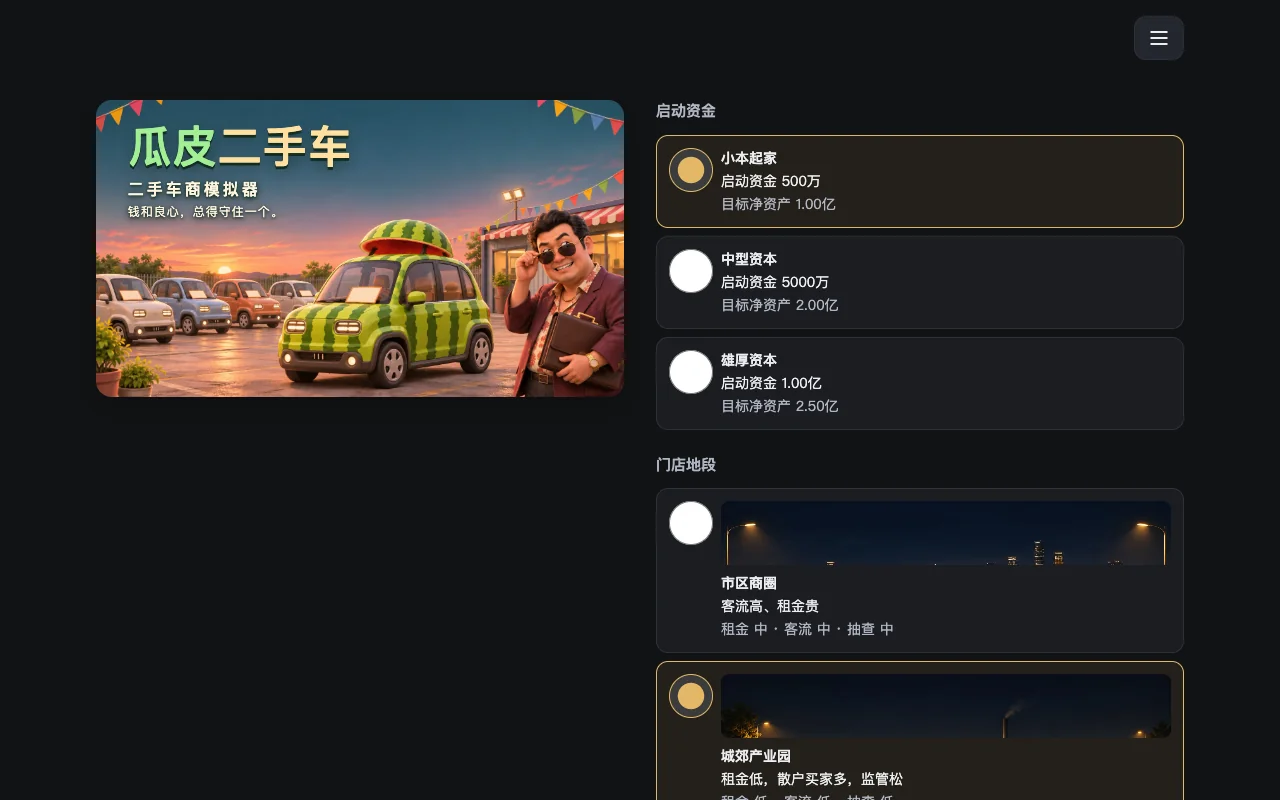
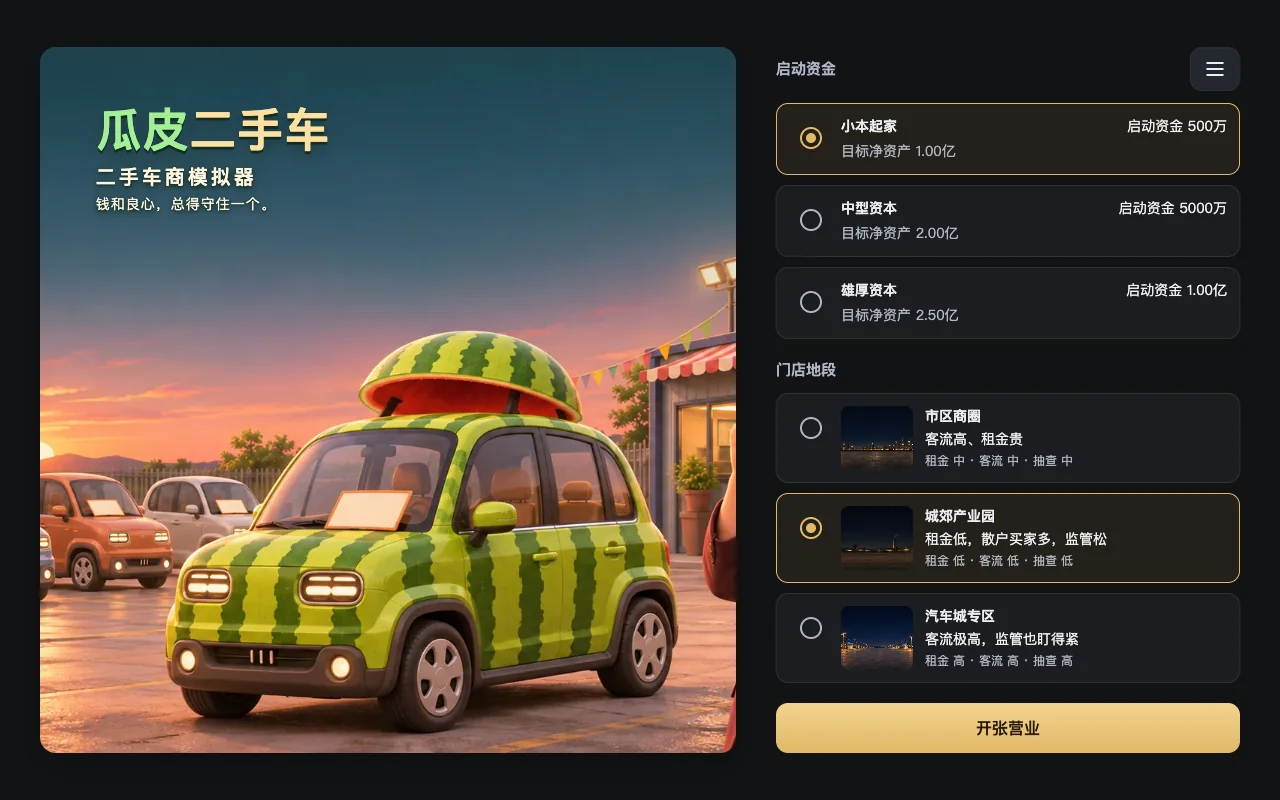
Polish start screen radios and center desktop layout

diff --git a/tools/start-screen-check.js b/tools/start-screen-check.js
@@ -1,0 +1,50 @@
+/* 开始页验收：桌面居中/首图高度、单选点击与键盘，以及可选的手机基线。 */
+const fs=require('fs'),path=require('path');
+module.exports=async function startScreenCheck(page,width,height,out,check,result,prefix,online){
+  const data=await page.evaluate(()=>{
+    const box=e=>{const r=e.getBoundingClientRect();return {x:r.x,y:r.y,width:r.width,height:r.height,right:r.right,bottom:r.bottom};};
+    return {start:box(document.querySelector('.start')),hero:box(document.querySelector('.keyart')),options:box(document.querySelector('.start-options')),menu:box(document.querySelector('.toolbar')),
+      last:box(document.querySelector('[data-act=start]')),source:document.querySelector('.keyart img').currentSrc,
+      boxes:[...document.querySelectorAll('.start,.keyart,.keyart-copy,.start-options,.pick,.start h3,.start button')].map(e=>box(e)),
+      radios:[...document.querySelectorAll('.start input[type=radio]')].map(e=>{const base=getComputedStyle(e),ring=getComputedStyle(e,'::before'),dot=getComputedStyle(e,'::after');return {checked:e.checked,hit:box(e),background:base.backgroundColor,border:ring.borderColor,borderWidth:ring.borderWidth,opacity:dot.opacity};})};
+  });
+  const label=width+'×'+height;
+  check(data.radios.every(r=>r.hit.width>=44&&r.hit.height>=44),label+' 单选保留44px点击区');
+  check(data.radios.every(r=>r.background==='rgba(0, 0, 0, 0)'&&r.borderWidth==='2px'&&r.border===(r.checked?'rgb(226, 184, 102)':'rgb(177, 182, 195)')&&+r.opacity===(r.checked?1:0)),label+' 未选空心次要色、选中金圈金点');
+  if(width>=1000){
+    check(data.start.width<=1200.5&&Math.abs(data.start.x+data.start.width/2-width/2)<.5,label+' 内容最大1200px且水平居中');
+    check(Math.abs(data.start.y+data.start.height/2-height/2)<.5,label+' 内容垂直居中');
+    check(data.hero.height>=height*.75-.5&&Math.abs(data.hero.height-data.options.height)<.5,label+' 首图至少75vh且撑满右栏');
+    check(Math.abs(data.hero.width/data.options.width-1.5)<.01,label+' 左右栏3比2');
+    check(Math.abs(data.menu.right-data.start.right)<.5&&Math.abs(data.menu.y-data.start.y)<.5,label+' 菜单位于内容区右上角');
+    check(data.last.bottom<=height-8,label+' 开张按钮完整在首屏');
+    check(data.source.endsWith('keyart_a_desktop.webp'),label+' 使用A桌面图');
+  }
+  await page.screenshot({path:path.join(out,prefix+(online?'-online':'')+(width>=1000?'-desktop-':'-mobile-')+width+'.png')});
+  if(width===390&&!online){
+    await page.screenshot({path:path.join(out,prefix+'-mobile-after-full.png'),fullPage:true});
+    const before=path.join(out,'t05-mobile-before.json');
+    if(fs.existsSync(before)){
+      const baseline=JSON.parse(fs.readFileSync(before,'utf8'));
+      const same=baseline.boxes.length===data.boxes.length&&baseline.boxes.every((b,i)=>['x','y','width','height'].every(k=>Math.abs(b[k]-data.boxes[i][k])<.01));
+      check(same,'390手机所有标题、卡片、按钮和首图布局坐标与修改前一致');result.mobileBaseline={same,commit:baseline.commit};
+    }
+  }
+  await page.emulateMedia({reducedMotion:'no-preference'});
+  check(await page.locator('input[name=diff]').first().evaluate(e=>getComputedStyle(e,'::before').transitionDuration==='0.15s'&&getComputedStyle(e,'::after').transitionDuration.split(', ').every(t=>t==='0.15s')),label+' 单选切换过渡150ms');
+  for(const name of ['diff','loc']){
+    const inputs=page.locator('input[name='+name+']');await inputs.nth(2).check();
+    await page.waitForFunction(name=>+getComputedStyle(document.querySelector('input[name='+name+']:checked'),'::after').opacity===1,name);
+    check(await inputs.nth(2).isChecked()&&await page.locator('input[name='+name+']:checked').count()===1,label+' '+name+' 点击保持互斥');
+    await inputs.nth(2).press('ArrowLeft');check(await inputs.nth(1).isChecked(),label+' '+name+' 原生方向键可切换');
+  }
+  await page.emulateMedia({reducedMotion:'reduce'});
+  check(await page.locator('input[name=diff]').first().evaluate(e=>getComputedStyle(e,'::before').transitionDuration==='0s'&&getComputedStyle(e,'::after').transitionDuration==='0s'),label+' 减少动态效果关闭单选过渡');
+  await page.locator('input[name=diff]').first().check();await page.locator('input[name=loc]').nth(1).check();
+  if(width>=1000){
+    await page.evaluate(()=>{window.__startHasSave=G.hasSave;G.hasSave=()=>true;G.render();});
+    check(await page.locator('[data-act=continue]').evaluate(e=>e.getBoundingClientRect().bottom<=innerHeight-8),label+' 含继续按钮也完整在首屏');
+    await page.evaluate(()=>{G.hasSave=window.__startHasSave;delete window.__startHasSave;G.render();scrollTo(0,0);});
+  } else await page.evaluate(()=>scrollTo(0,0));
+  (result.startScreens??=[]).push({width,height,...data});
+};

diff --git a/tools/browser-check.js b/tools/browser-check.js
@@ -5,7 +5,7 @@ const fs=require('fs'),path=require('path');const {chromium}=require(process.env
 const root=path.resolve(__dirname,'..'),url=process.env.USEDCAR_TEST_URL||'http://127.0.0.1:8893/';
 const online=/^https:\/\/[^/]+\.github\.io\//.test(url);if(!online&&!/^http:\/\/(localhost|127\.0\.0\.1):\d+\/$/.test(url))throw new Error('请使用本地预览或 Pages 地址');
 const out=path.join(root,'_screens');const result={url,checks:[],errors:[],viewports:[],buttons:[],performance:{}};
-const prefix=process.env.USEDCAR_EVIDENCE_PREFIX||'t04';fs.mkdirSync(out,{recursive:true});
+const prefix=process.env.USEDCAR_EVIDENCE_PREFIX||'t05';fs.mkdirSync(out,{recursive:true});
 function check(value,msg){result.checks.push({pass:!!value,msg});if(!value)throw new Error(msg);}
 const act=(p,name)=>p.locator(`[data-act="${name}"]`);
 async function click(p,name){const el=act(p,name).first();const disabled=await el.isDisabled();if(disabled)await el.evaluate(e=>e.scrollIntoView({block:'center'}));await el.click({force:disabled});result.buttons.push(name);}
@@ -16,14 +16,15 @@ async function geometry(p,label){const d=await p.evaluate(()=>({w:innerWidth,doc
 async function touch(p,label){const r=await p.evaluate(()=>{const gesture=new Event('gesturestart',{bubbles:true,cancelable:true});document.dispatchEvent(gesture);const move=new Event('touchmove',{bubbles:true,cancelable:true});Object.defineProperty(move,'touches',{value:[{},{}]});document.dispatchEvent(move);const wheel=new WheelEvent('wheel',{ctrlKey:true,bubbles:true,cancelable:true});document.dispatchEvent(wheel);const key=new KeyboardEvent('keydown',{key:'+',ctrlKey:true,bubbles:true,cancelable:true});document.dispatchEvent(key);const one=new Event('touchend',{bubbles:true,cancelable:true}),two=new Event('touchend',{bubbles:true,cancelable:true});document.body.dispatchEvent(one);document.body.dispatchEvent(two);return {scale:visualViewport.scale,gesture:gesture.defaultPrevented,move:move.defaultPrevented,wheel:wheel.defaultPrevented,key:key.defaultPrevented,double:two.defaultPrevented};});check(r.gesture&&r.move&&r.wheel&&r.key&&r.double&&Math.abs(r.scale-1)<.001,label+' 双指 / 手势 / 双击 / 组合键被拦截，scale=1');}
 async function snapshot(p,name){await p.waitForLoadState('networkidle');await p.screenshot({path:path.join(out,name+'.png')});}
 (async()=>{const browser=await chromium.launch({channel:'chrome',headless:true});try{
- if(!online&&!process.env.USEDCAR_WIDTH)await require('./keyart-check')(browser,url,out,check,result);
- for(const [w,h] of (online?[[390,844],[1280,800]]:[[375,667],[390,844],[430,932],[1280,800],[1920,1080]]).filter(([width])=>!process.env.USEDCAR_WIDTH || width===Number(process.env.USEDCAR_WIDTH))){
+ if(!online&&!process.env.USEDCAR_WIDTH)await require('./keyart-check')(browser,url,out,check,result,prefix);
+ for(const [w,h] of (online?[[390,844],[1280,800],[1440,900],[1920,1080]]:[[375,667],[390,844],[430,932],[1280,800],[1440,900],[1920,1080]]).filter(([width])=>!process.env.USEDCAR_WIDTH || width===Number(process.env.USEDCAR_WIDTH))){
  const ctx=await browser.newContext({viewport:{width:w,height:h},hasTouch:w<500,isMobile:w<500,reducedMotion:'reduce'});
  await ctx.addInitScript(()=>{window.__vibes=[];window.__tones=0;try{navigator.vibrate=n=>{window.__vibes.push(n);return true;};}catch(_){}const Base=window.AudioContext;if(Base)window.AudioContext=class extends Base{createOscillator(){window.__tones++;return super.createOscillator();}};});
  const p=await ctx.newPage();p.on('pageerror',e=>result.errors.push(w+': '+e.message));p.on('response',r=>{if(r.status()>=400)result.errors.push(r.status()+' '+r.url());});p.on('console',m=>{if(m.type()==='error')result.errors.push(m.text());});
  await p.goto(url);await p.waitForLoadState('networkidle');check((await p.title()).includes('瓜皮二手车'),'游戏名');await geometry(p,w+' 开始');await touch(p,w+' 开始');
  check(await p.locator('.keyart-title').count()===1,'开始页标题叠在首图');
  check(await p.locator('.keyart-title').evaluate(e=>parseFloat(getComputedStyle(e).fontSize)>=40),'首图标题不小于40px');
+ await require('./start-screen-check')(p,w,h,out,check,result,prefix,online);
  await snapshot(p,prefix+(online?'-online-':'-start-')+(online?(w<500?'mobile':'desktop'):w));
  check(await p.locator('meta[name="viewport"]').getAttribute('content').then(s=>s.includes('user-scalable=no')),'viewport 已限制');
  await menu(p);check(await act(p,'save-import').count()===1&&await act(p,'save-export').count()===0,'未开局菜单只提供导入');await click(p,'menu-close');

diff --git a/css/keyart.css b/css/keyart.css
@@ -1,4 +1,4 @@
-/* 手机与桌面各用独立构图；完整显示原图，不用 cover 碰运气裁主体。 */
+/* 手机完整显示独立竖图；桌面 A 用横图 cover，焦点对准西瓜车。 */
 .keyart { position:relative; isolation:isolate; overflow:hidden; aspect-ratio:1122/1402;
   border-radius:16px; background:#17342f; box-shadow:0 10px 30px #0003; }
 .keyart-picture, .keyart-picture img { display:block; width:100%; height:100%; }
@@ -44,4 +44,52 @@
   .keyart-car-back { top:32%; left:-1%; width:51%; }
   .keyart-car-middle { top:34%; right:-2%; width:57%; }
   .keyart-car-front { top:42%; left:20%; width:60%; }
+}
+/* 单选控件保留 44px 原生点击区；可见圆圈 22px，不改变手机卡片排版。 */
+.start .pick input[type=radio] { appearance:none; -webkit-appearance:none; width:44px; height:44px;
+  border:0; padding:0; background:transparent; position:relative; display:grid; place-items:center; cursor:pointer; }
+.start .pick input[type=radio]::before { content:''; box-sizing:border-box; width:22px; height:22px; border:2px solid var(--muted);
+  border-radius:50%; transition:border-color 150ms ease; }
+.start .pick input[type=radio]::after { content:''; position:absolute; top:17px; left:17px; width:10px; height:10px;
+  border-radius:50%; background:var(--gold); opacity:0; transform:scale(0); transition:opacity 150ms ease,transform 150ms ease; }
+.start .pick input[type=radio]:checked::before { border-color:var(--gold); }
+.start .pick input[type=radio]:checked::after { opacity:1; transform:scale(1); }
+.start .pick input[type=radio]:focus-visible { outline:2px solid var(--blue); outline-offset:1px; border-radius:50%; }
+@media(min-width:1000px) {
+  #app.at-start { max-width:none; padding:24px; min-height:100vh; min-height:100dvh;
+    display:flex; align-items:center; justify-content:center; }
+  .at-start .start { position:relative; width:100%; max-width:1200px; padding:0; gap:40px;
+    grid-template-columns:minmax(0,3fr) minmax(0,2fr); align-items:stretch; }
+  .at-start .start > .toolbar { position:absolute; top:0; right:0; margin:0; z-index:3; }
+  .at-start .start-intro { position:static; display:flex; padding:0; }
+  .at-start .start-art { display:flex; align-items:center; width:100%; }
+  .at-start .keyart { width:100%; }
+  .at-start .keyart-a { height:100%; min-height:75vh; min-height:75dvh; aspect-ratio:auto; align-self:stretch; }
+  .at-start .keyart-a .keyart-picture img { object-fit:cover; object-position:55% center; }
+  .at-start .keyart-a::after { content:''; position:absolute; inset:0; pointer-events:none;
+    background:linear-gradient(180deg,#102c2d66,transparent 42%); }
+  .at-start .keyart-a .keyart-copy { top:8%; left:8%; right:8%; text-align:left; }
+  .at-start .keyart-a .keyart-title { font-size:clamp(44px,3.6vw,64px); }
+  .at-start .keyart-a .keyart-subtitle { font-size:20px; }
+  .at-start .keyart-a .keyart-tagline { font-size:14px; }
+  .at-start .start-options { display:flex; flex-direction:column; }
+  .at-start .start-options > h3 { margin:24px 0 12px; }
+  .at-start .start-options > h3:first-child { min-height:44px; display:flex; align-items:center; padding-right:60px; margin-top:0; }
+  .at-start .start-options .picks { gap:12px; }
+  .at-start .pick-funds > div { display:grid; grid-template-columns:minmax(0,1fr) auto; gap:4px 8px; width:100%; }
+  .at-start .pick-funds .muted { grid-column:1 / -1; }
+  .at-start .pick-location > div { display:grid; grid-template-columns:72px minmax(0,1fr); column-gap:12px; row-gap:2px; width:100%; }
+  .at-start .pick-location .loc-art { grid-column:1; grid-row:1 / 4; align-self:center; width:72px; }
+  .at-start .pick-location .loc-art .store-scene { margin:0; }
+  .at-start .pick-location b, .at-start .pick-location span { grid-column:2; }
+  .at-start .pick-location .muted { font-size:12px; }
+  .at-start .start-options > .picks:last-of-type { margin-bottom:24px; }
+  .at-start .start-options > [data-act=start] { margin-top:auto; }
+}
+/* 较矮的电脑屏幕也容纳已有存档的“继续”按钮；手机不受影响。 */
+@media(min-width:1000px) and (max-height:850px) {
+  #app.at-start { padding:12px; }
+  .at-start .start-options .picks { gap:10px; }
+  .at-start .start-options > h3 { margin-top:20px; }
+  .at-start .start-options > .picks:last-of-type { margin-bottom:20px; }
 }

diff --git a/tools/keyart-check.js b/tools/keyart-check.js
@@ -1,8 +1,8 @@
 /* 三案 × 四尺寸的开始页验收；由 browser-check.js 调用，不影响游戏运行。 */
 const path = require('path');
-module.exports = async function keyartCheck(browser, url, out, check, result) {
+module.exports = async function keyartCheck(browser, url, out, check, result, prefix='t05') {
   result.keyarts = [];
-  for (const [width, height] of [[390,844],[430,932],[1280,800],[1920,1080]]) {
+  for (const [width, height] of [[390,844],[430,932],[1280,800],[1440,900],[1920,1080]]) {
     const ctx = await browser.newContext({ viewport:{width,height}, hasTouch:width<500, isMobile:width<500, reducedMotion:'reduce' });
     try {
       const page = await ctx.newPage();
@@ -32,18 +32,18 @@ module.exports = async function keyartCheck(browser, url, out, check, result) {
         check(info.headings===1&&!info.sticker,label+' 唯一叠图标题且无方块贴纸');
         check(info.font>=40,label+' 标题至少40px');
         check(info.ink.x>=info.hero.x&&info.ink.right<=info.hero.right&&info.ink.y>=info.hero.y&&info.copy.bottom<=info.hero.bottom,label+' 标题和文案完整在首图内');
-        check(info.menu.bottom<=info.hero.y,label+' 菜单不覆盖首图');
+        check(info.menu.bottom<=info.hero.y||info.menu.x>=info.hero.right,label+' 菜单不覆盖首图');
         check(info.fits,label+' 无横向溢出');
         check(info.visibleCardFraction>=.5,label+' 首屏看见至少半张启动资金卡');
         check(!info.moving,label+' 减少动态效果不播放动画');
         if(variant==='b')check(info.filters.includes('url(#artTint7)')&&info.filters.length===3,label+' 复用三辆车与绿色染色');
         else {
-          check(info.image.ok&&info.image.fit==='contain',label+' 图片完整加载且不裁图');
+          check(info.image.ok&&info.image.fit===(variant==='a'&&width>=1000?'cover':'contain'),label+' 图片加载及当前构图适配');
           check(info.image.url.endsWith('keyart_'+variant+'_'+(width<1000?'mobile':'desktop')+'.webp'),label+' 使用对应尺寸独立构图');
         }
         // 百分比布局存在子像素舍入；容许半个 CSS 像素，仍严格限制在招牌内。
         if(variant==='c')check(info.copy.y+.5>=info.hero.y+info.hero.height*.06&&info.copy.bottom-.5<=info.hero.y+info.hero.height*(width<1000?.345:.395),label+' 文字位于实测招牌边界');
-        const filename='t04-keyart-'+variant+'-'+width+'.png';
+        const filename=prefix+'-keyart-'+variant+'-'+width+'.png';
         await page.screenshot({path:path.join(out,filename)});
         result.keyarts.push({width,height,filename,...info});
       }

diff --git a/index.html b/index.html
@@ -18,26 +18,26 @@
   <link rel="apple-touch-icon" href="assets/icon/apple-touch-icon.png" sizes="180x180">
   <script>if (/^https?:$/.test(location.protocol)) { var manifestLink = document.createElement('link'); manifestLink.rel = 'manifest'; manifestLink.href = 'manifest.webmanifest'; document.head.appendChild(manifestLink); }</script>
   <title>瓜皮二手车 · 二手车商模拟器</title>
-  <link rel="stylesheet" href="css/style.css?v=20261109.04">
-  <link rel="stylesheet" href="css/keyart.css?v=20261109.04">
+  <link rel="stylesheet" href="css/style.css?v=20261109.05">
+  <link rel="stylesheet" href="css/keyart.css?v=20261109.05">
 </head>
 <body>
   <div id="app"></div>
   <div id="toast" role="status" aria-live="polite"></div>
   <!-- 普通 script 标签，双击 index.html 就能玩，不需要本地服务器 -->
-  <script src="js/data.js?v=20261109.04"></script>
-  <script src="js/util.js?v=20261109.04"></script>
-  <script src="js/car.js?v=20261109.04"></script>
-  <script src="js/game.js?v=20261109.04"></script>
-  <script src="js/staff.js?v=20261109.04"></script>
-  <script src="js/finance.js?v=20261109.04"></script>
-  <script src="js/art.js?v=20261109.04"></script>
-  <script src="js/events.js?v=20261109.04"></script>
-  <script src="js/mobile.js?v=20261109.04"></script>
-  <script src="js/feedback.js?v=20261109.04"></script>
-  <script src="js/save-ui.js?v=20261109.04"></script>
-  <script src="js/ui.js?v=20261109.04"></script>
-  <script src="js/tutorial.js?v=20261109.04"></script>
-  <script src="js/sound.js?v=20261109.04"></script>
+  <script src="js/data.js?v=20261109.05"></script>
+  <script src="js/util.js?v=20261109.05"></script>
+  <script src="js/car.js?v=20261109.05"></script>
+  <script src="js/game.js?v=20261109.05"></script>
+  <script src="js/staff.js?v=20261109.05"></script>
+  <script src="js/finance.js?v=20261109.05"></script>
+  <script src="js/art.js?v=20261109.05"></script>
+  <script src="js/events.js?v=20261109.05"></script>
+  <script src="js/mobile.js?v=20261109.05"></script>
+  <script src="js/feedback.js?v=20261109.05"></script>
+  <script src="js/save-ui.js?v=20261109.05"></script>
+  <script src="js/ui.js?v=20261109.05"></script>
+  <script src="js/tutorial.js?v=20261109.05"></script>
+  <script src="js/sound.js?v=20261109.05"></script>
 </body>
 </html>

diff --git a/js/ui.js b/js/ui.js
@@ -77,12 +77,12 @@ var G = globalThis.G = globalThis.G || {};
   /* ---------- 开始界面 ---------- */
   function startScreen() {
     const diffs = G.CONFIG.difficulties.map((d, i) => `
-      <label class="pick">
+      <label class="pick pick-funds">
         <input type="radio" name="diff" value="${d.id}" ${i === 0 ? 'checked' : ''}>
         <div><b>${d.name}</b><span>启动资金 ${fmt(d.cash)}</span><span class="muted">目标净资产 ${fmt(d.goal)}</span></div>
       </label>`).join('');
     const locs = Object.entries(G.LOCATIONS).map(([id, l], i) => `
-      <label class="pick">
+      <label class="pick pick-location">
         <input type="radio" name="loc" value="${id}" ${i === 1 ? 'checked' : ''}>
         <div><div class="loc-art">${G.Art.store(1, id, { empty: true })}</div><b>${l.name}</b><span>${l.desc}</span>
           <span class="muted">租金 ${level3(l.rent, 0.8, 1.1)} · 客流 ${level3(l.traffic, 1, 1.5)} · 抽查 ${level3(l.inspect, 0.05, 0.09)}</span></div>
@@ -471,6 +471,7 @@ var G = globalThis.G = globalThis.G || {};
   /* ---------- 渲染 ---------- */
   function render() {
     const app = document.getElementById('app');
+    app.classList.toggle('at-start', !G.state);
     if (renderedState !== G.state) { previousHUD = null; renderedState = G.state; }
     const currentHUD = G.Feedback.snapshot();
     if (!G.state) { app.innerHTML = startScreen() + currentModal(); G.Art.preload?.(); G.Tutorial?.render(); G.Feedback.prepare(); syncOverlay(); return; }

diff --git a/README.md b/README.md
@@ -53,7 +53,7 @@ python3 tools/build_icons.py
 PLAYWRIGHT_MODULE=/已有的/playwright node tools/build_share.js
 ```
 
-开始页提供三套可切换首图。改 `js/art.js` 顶部的 `G.CONFIG.keyart`：`a` 是西瓜皮车与心虚车商（默认），`b` 是现有车图代码拼装，`c` 是车行灯箱招牌。A/C 的手机与桌面图片分别构图，完整显示，不硬裁；标题、副标题和标语由 HTML/CSS 排版。切换不改变经营或存档。新图母版仍在本地 `assets_original/ui/`，经 `tools/build_webp.py` 生成运行图。
+开始页提供三套可切换首图。改 `js/art.js` 顶部的 `G.CONFIG.keyart`：`a` 是西瓜皮车与心虚车商（默认），`b` 是现有车图代码拼装，`c` 是车行灯箱招牌。A/C 的手机与桌面图片分别构图；手机完整显示竖图。≥1000px 开始页最大宽1200px、两栏3:2居中，A桌面横图按西瓜车焦点cover铺满至少75vh并与右栏等高。菜单位于内容区右上，单选控件采用空心圈/金色圆点和150ms过渡。标题、副标题和标语由 HTML/CSS 排版。切换不改变经营或存档。新图母版仍在本地 `assets_original/ui/`，经 `tools/build_webp.py` 生成运行图。
 
 `G.ASSET_PACK` 可以单独关闭美术组并退回矢量画。路径扩展名统一由 `G.ASSET_EXT` 提供。母版、运行图与图标分开，不做 PNG 兜底。
 
@@ -82,7 +82,8 @@ assets/                  WebP 美术与标准 PNG / ICO 图标
 docs/preview.webp        游戏截图
 tools/test-events.js     引擎与存档回归
 tools/browser-check.js   可选 Playwright 浏览器验收
-tools/keyart-check.js    三案四尺寸首图检查与截图
+tools/keyart-check.js    三案五尺寸首图检查与截图
+tools/start-screen-check.js  开始页布局、单选与手机对照检查
 tools/keyart-compare.py  首图截图联系表
 tools/build_share.js     当前首图的 CSS 分享图
 tools/text-audit.js      玩家文案提取
@@ -104,7 +105,7 @@ python3 -m http.server 8893 --bind 127.0.0.1
 PLAYWRIGHT_MODULE=/已有的/playwright node tools/browser-check.js
 ```
 
-72 项断言、35 张事件卡的 266 个选项组合覆盖员工、金融、事件、旧存档续玩 24 月、坏存档保护。浏览器检查包含 375 / 390 / 430 / 1280 / 1920 五种视口、触屏、存档下载及文件导入、三个月经营、结算防连点和偏好持久化。首图另检查三案 × 四尺寸、40px 标题、资金卡首屏可见、招牌定位、图片完整显示和美术关闭后备。合成触屏事件不能替代所有真实 iOS 手势或真人听音。
+72 项断言、35 张事件卡的 266 个选项组合覆盖员工、金融、事件、旧存档续玩 24 月、坏存档保护。浏览器检查包含 375 / 390 / 430 / 1280 / 1440 / 1920 六种视口、触屏、存档下载及文件导入、三个月经营、结算防连点和偏好持久化。首图另检查三案 × 五尺寸、40px 标题、资金卡首屏可见、招牌定位、构图适配和美术关闭后备；另验收单选点击/方向键/过渡/减少动态效果，宽屏居中、3:2、首图与右栏等高及含继续按钮的首屏布局。合成触屏事件不能替代所有真实 iOS 手势或真人听音。
 
 ### 沿用的 v0.9 校准结果
 
